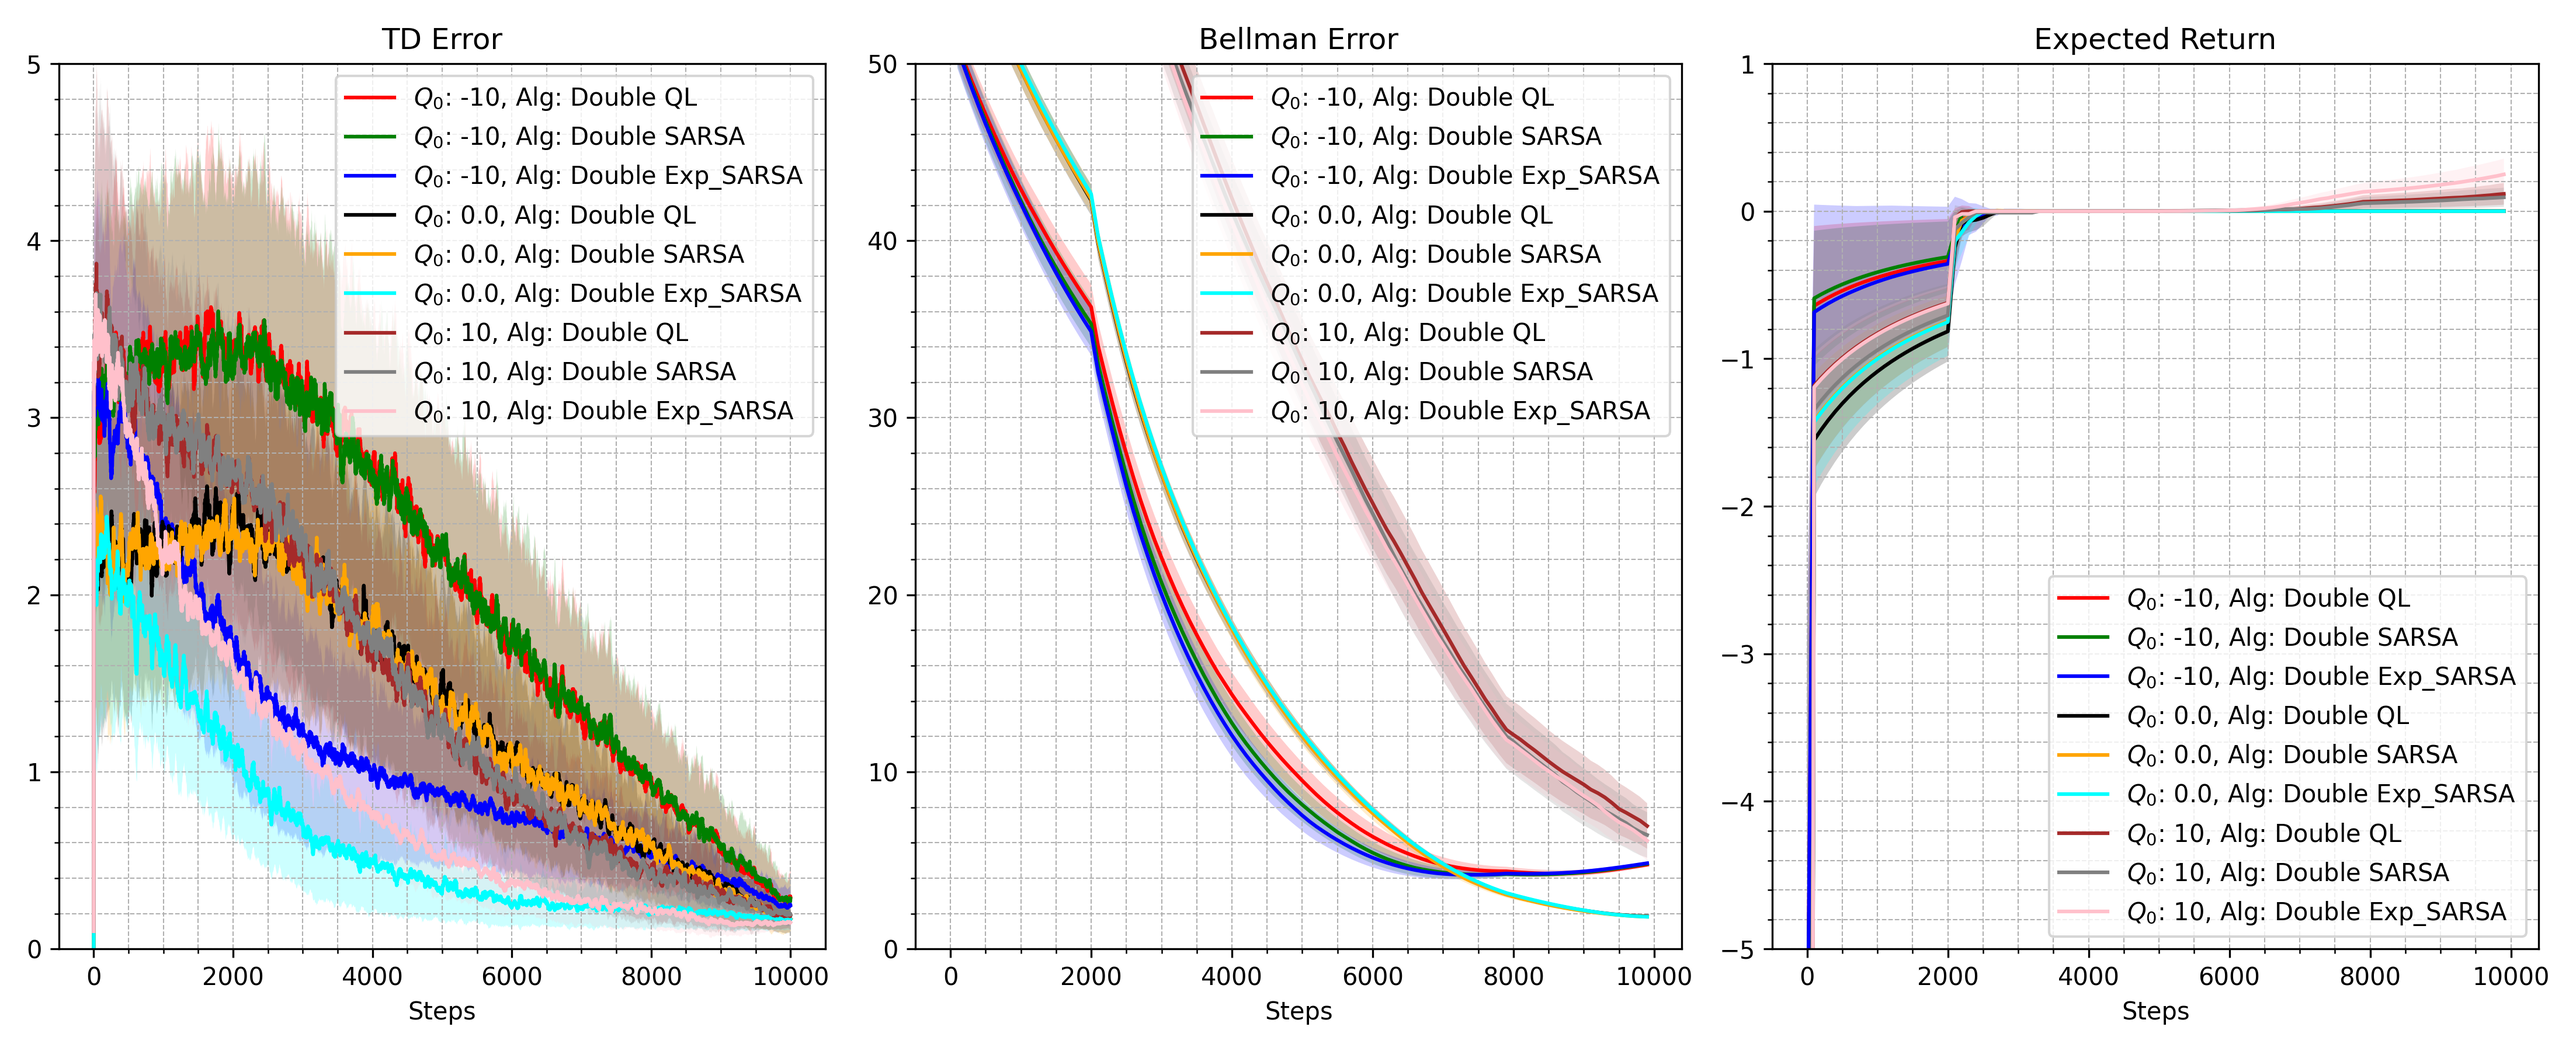
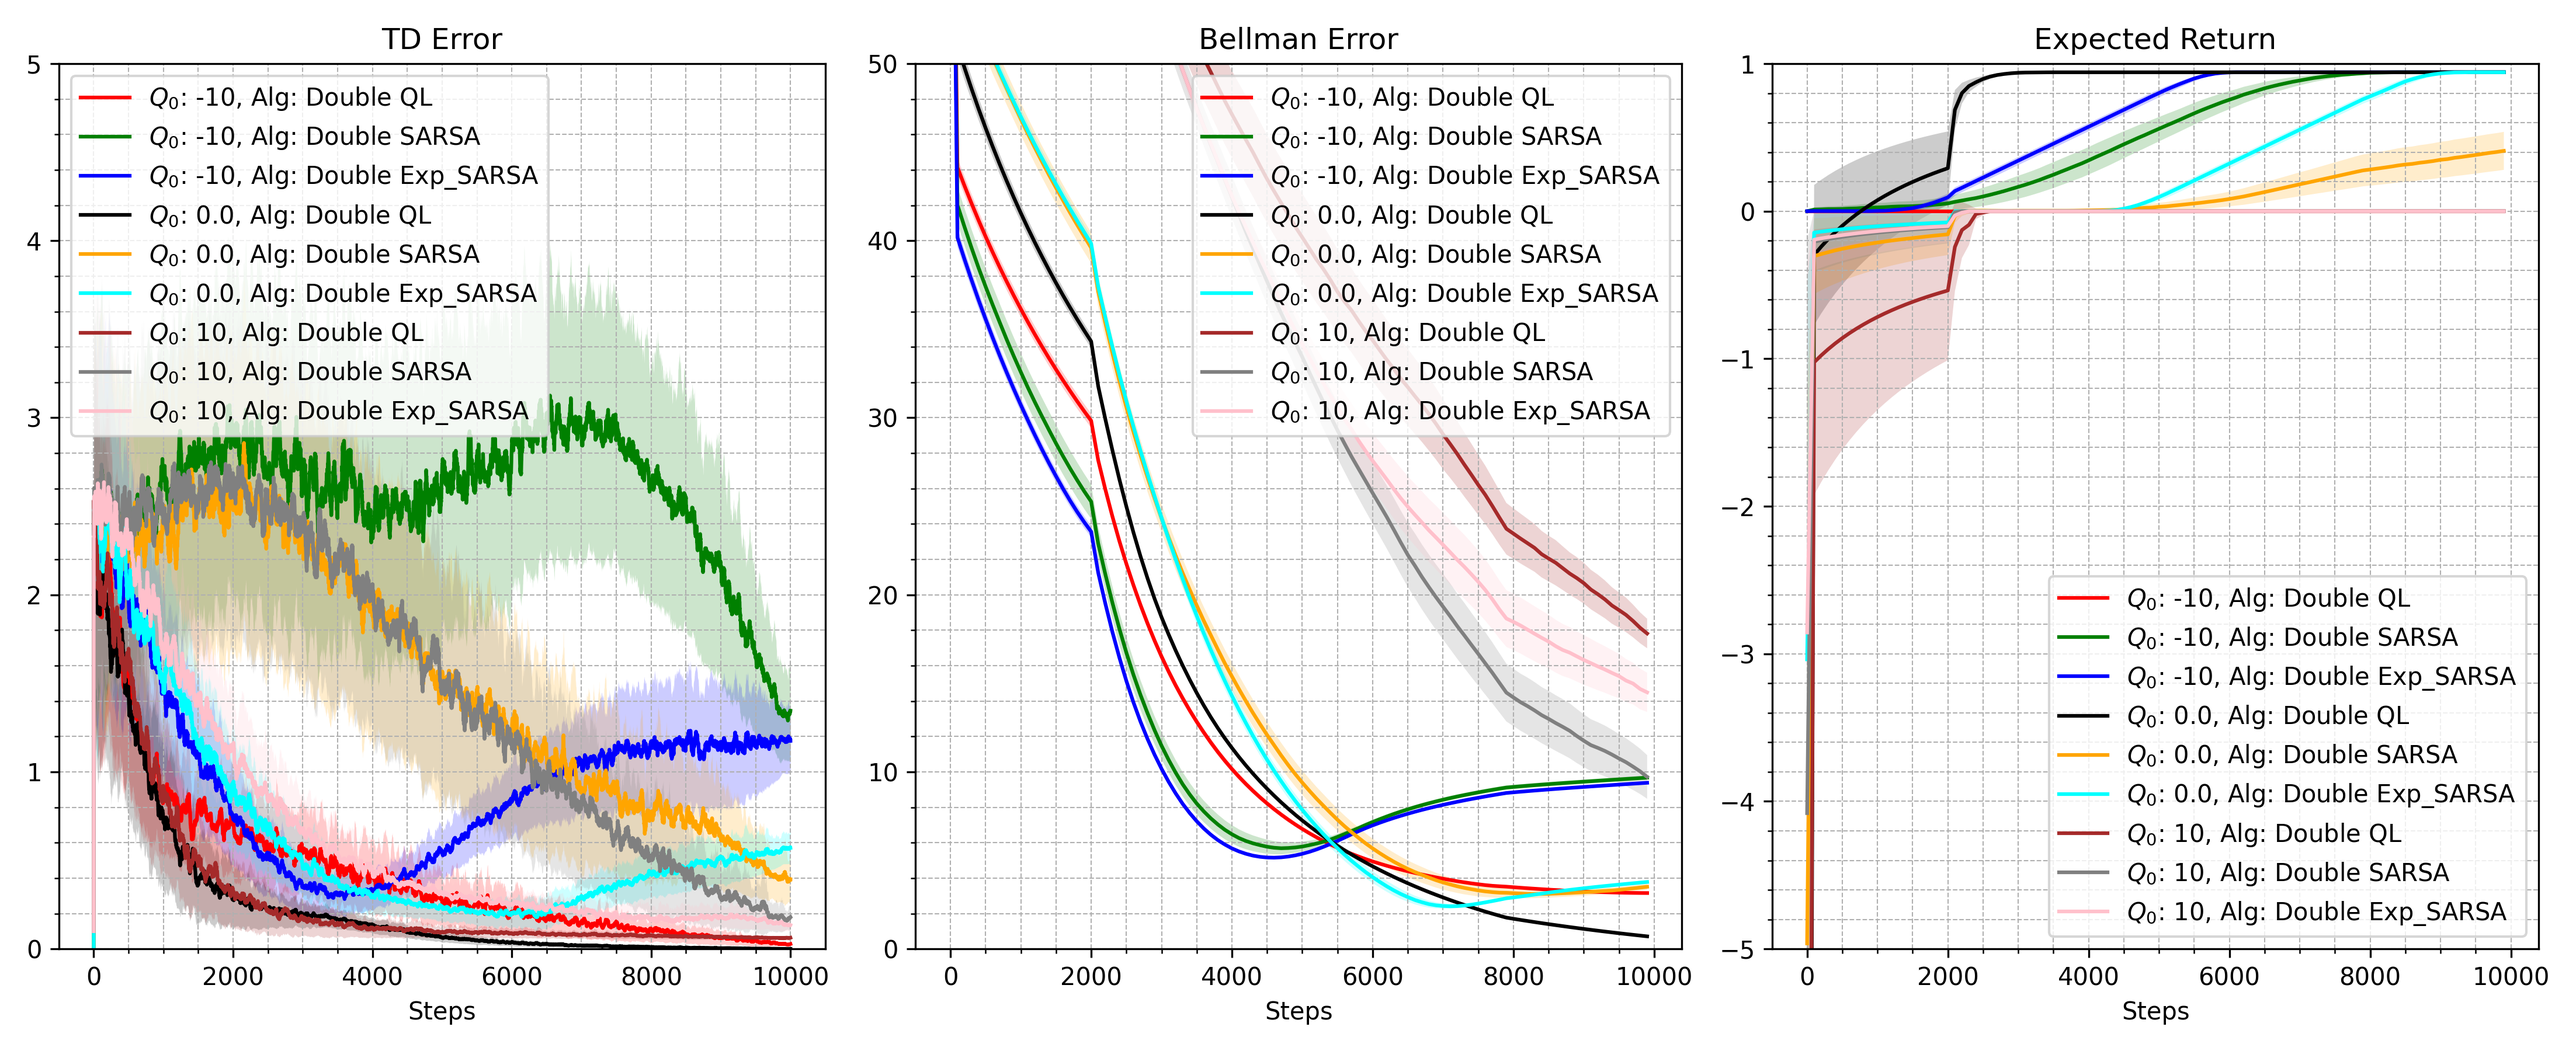
plots added for double TD learning

Changed region(s): [[0.0311, 0.0622, 0.3107, 0.9022], [0.3728, 0.0622, 0.6524, 0.9022], [0.6834, 0.0622, 0.9941, 0.9022]]

diff --git a/Assignment 5/gym_gridworlds/TD_with_doubles.py b/Assignment 5/gym_gridworlds/TD_with_doubles.py
@@ -40,10 +40,9 @@ def bellman_q(pi, gamma, max_iter=1000):
 
 
 def eps_greedy_probs(Q, eps):
-    # return action probabilities
-    pi = np.ones_like(Q) * (eps / n_actions)
+    pi = np.ones((n_states, n_actions)) * (eps / n_actions)
     best_actions = np.argmax(Q, axis=1)
-    for s in range(Q.shape[0]):
+    for s in range(n_states):
         pi[s, best_actions[s]] += (1 - eps)
     return pi
 
@@ -58,7 +57,6 @@ def eps_greedy_probs_s(Q, s, eps):
     return p_s
 
 def eps_greedy_action(Q, s, eps):
-    # return action drawn according to eps-greedy policy
     if np.random.rand() < eps:
         action = np.random.choice(n_actions)
     else:
@@ -85,54 +83,59 @@ def expected_return(env, Q, gamma, episodes=10):
 def td(env, env_eval, Q, gamma, eps, alpha, max_steps, alg, _seed):
     be = []
     exp_ret = []
-    tde = np.zeros(max_steps)
+    tde = []
     Q1, Q2 = Q, Q
     eps_decay = eps / max_steps
     alpha_decay = alpha / max_steps
     tot_steps = 0
     while tot_steps < max_steps:
         s, _ = env.reset(seed = _seed)
+        a = eps_greedy_action((Q1+Q2)/2, s, eps)
         done = False
         while not done and tot_steps < max_steps:
-            a = eps_greedy_action(Q1+Q2, s, eps)
-            s_next, r, terminated, truncated, _ = env.step(a)
+            tot_steps += 1
+            if alg == "SARSA":
+                s_next, r, terminated, truncated, _ = env.step(a)
+            else:
+                a = eps_greedy_action(Q, s, eps)
+                s_next, r, terminated, truncated, _ = env.step(a)
+
             done = terminated or truncated
+            eps = max(eps - eps_decay, 0.01)
+            alpha = max(alpha - alpha_decay, 0.001)
 
-            # TD learning with if ... else for the 3 algorithms
-            # log TD error at every timestep
             if alg == "Double SARSA":
-                a_next = eps_greedy_action((Q1+Q2)/2, s_next, eps)
-
                 if np.random.rand() > 0.5:
-                    td_err = r + gamma * Q2[s_next, a_next] * (1 - done) - Q1[s, a]
+                    a_next = eps_greedy_action(Q1, s_next, eps)
+                    td_err = r + gamma * Q2[s_next, a_next] * (1 - terminated) - Q1[s, a]
                     Q1[s,a] += alpha * td_err
                 else:
-                    td_err = r + gamma * Q1[s_next, a_next] * (1 - done) - Q2[s, a]
+                    a_next = eps_greedy_action(Q2, s_next, eps)
+                    td_err = r + gamma * Q1[s_next, a_next] * (1 - terminated) - Q2[s, a]
                     Q2[s,a] += alpha * td_err
                 
             elif alg == "Double QL":
                 if np.random.rand() > 0.5:
-                    a_next = eps_greedy_action(Q1, s_next, eps)
-                    td_err = r + gamma * Q2[s_next, a_next] * (1 - done) - Q1[s, a]
+                    a_next = np.argmax(Q2[s_next])
+                    td_err = r + gamma * Q2[s_next, a_next] * (1 - terminated) - Q1[s, a]
                     Q1[s,a] += alpha * td_err
                 else:
-                    a_next = eps_greedy_action(Q2, s_next, eps)
-                    td_err = r + gamma * Q1[s_next, a_next] * (1 - done) - Q2[s, a]
+                    a_next = np.argmax(Q1[s_next])
+                    td_err = r + gamma * Q1[s_next, a_next] * (1 - terminated) - Q2[s, a]
                     Q2[s,a] += alpha * td_err
                     
             elif alg == "Double Exp_SARSA":
                 pi = eps_greedy_probs_s((Q1+Q2)/2, s_next, eps)
+                a_next = np.argmax(Q1[s_next] + Q2[s_next])
                 if np.random.rand() > 0.5:
-                    td_err = r + gamma * np.dot(Q2[s_next], pi) * (1 - done) - Q1[s, a]
+                    td_err = r + gamma * np.dot(Q2[s_next], pi) * (1 - terminated) - Q1[s, a]
                     Q1[s,a] += alpha * td_err
                 else:
-                    td_err = r + gamma * np.dot(Q1[s_next], pi) * (1 - done) - Q2[s, a]
+                    td_err = r + gamma * np.dot(Q1[s_next], pi) * (1 - terminated) - Q2[s, a]
                     Q2[s,a] += alpha * td_err
 
-            tde[tot_steps] = abs(td_err)
+            tde.append(abs(td_err))
 
-            # log B error only every 100 steps
-            # expected_return(env_eval, Q, gamma) only every
             if tot_steps % 100 == 0:
                 if alg == "QL":
                     Q_true = bellman_q(eps_greedy_probs(Q, 0), gamma)
@@ -141,11 +144,8 @@ def td(env, env_eval, Q, gamma, eps, alpha, max_steps, alg, _seed):
                 be.append(np.mean(np.abs(Q - Q_true)))
                 exp_ret.append(expected_return(env_eval, Q, gamma))
 
-            eps = max(eps - eps_decay, 0.01)
-            alpha = max(alpha - alpha_decay, 0.001)
-
             s = s_next
-            tot_steps += 1
+            a = a_next
 
     return Q, be, tde, exp_ret
 
@@ -238,7 +238,7 @@ for i, init_value in enumerate(init_values):
             results_be[i, j, seed] = be
             results_tde[i, j, seed] = tde
             results_exp_ret[i, j, seed] = exp_ret
-            print(i, j, seed)
+            # print(i, j, seed)
         label = f"$Q_0$: {init_value}, Alg: {alg}"
         axs[0].set_title("TD Error", fontsize=12)
         error_shade_plot(
